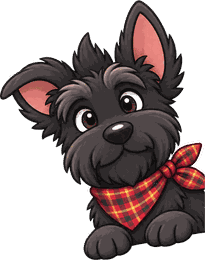
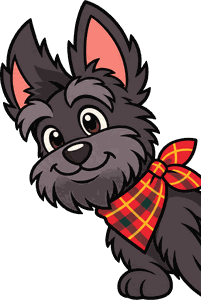
Dog artwork switched to the newer flat style, with new poses on kits, item pages, the reminder, room view, empty search and the footer
Claude-Session: https://claude.ai/code/session_01BS9uMKB9mKihHDjRcq7Zps

diff --git a/app.js b/app.js
@@ -294,7 +294,7 @@ function manualHtml(k,manual){
 function reminderHtml(top,name){
   // one compact row at the top of a page opened from the console; the fuller box in the side column otherwise
   if(top)return '<div class="reminder-top"><label for="return-date">Return reminder for '+esc(String(name).replace(/[\s.\/]+$/,''))+'</label><div class="reminder-row"><input id="return-date" type="datetime-local" aria-describedby="calendar-status"><button id="ics-button" type="button">Add to calendar</button><button id="calendar-button" class="button-secondary" type="button">Google Calendar ↗</button></div><button id="estimate-button" type="button" hidden></button><p id="calendar-status" class="calendar-status" role="status"></p><p class="extend-note">No renewals. Illness or an emergency? <a id="extend-link" href="mailto:help@ideate.cmu.edu">Ask for an extension by email</a> before it is due.</p></div>';
-  return '<div class="side-block"><h2>Return reminder</h2><p>Use the exact due date and time from your checkout email.</p><label for="return-date">Return date and time</label><input id="return-date" type="datetime-local" aria-describedby="calendar-status"><div class="reminder-buttons"><button id="estimate-button" class="button-secondary" type="button">Fill normal 3-day estimate</button><button id="ics-button" type="button">Add to calendar</button><button id="calendar-button" class="button-secondary" type="button">Google Calendar ↗</button></div><p id="calendar-status" class="calendar-status" role="status">Add to calendar alerts you the day before and 2 hours before. Google Calendar uses your own alert setting.</p><p class="extend-note">Cannot make it back in time? Loans cannot be renewed, but for illness or an emergency you can ask for more time before it is due.</p><a class="source-link" id="extend-link" href="mailto:help@ideate.cmu.edu">Ask for an extension by email \u2192</a></div>';
+  return '<div class="side-block">'+pup('calendar','pup-side')+'<h2>Return reminder</h2><p>Use the exact due date and time from your checkout email.</p><label for="return-date">Return date and time</label><input id="return-date" type="datetime-local" aria-describedby="calendar-status"><div class="reminder-buttons"><button id="estimate-button" class="button-secondary" type="button">Fill normal 3-day estimate</button><button id="ics-button" type="button">Add to calendar</button><button id="calendar-button" class="button-secondary" type="button">Google Calendar ↗</button></div><p id="calendar-status" class="calendar-status" role="status">Add to calendar alerts you the day before and 2 hours before. Google Calendar uses your own alert setting.</p><p class="extend-note">Cannot make it back in time? Loans cannot be renewed, but for illness or an emergency you can ask for more time before it is due.</p><a class="source-link" id="extend-link" href="mailto:help@ideate.cmu.edu">Ask for an extension by email \u2192</a></div>';
 }
 
 // The console's QR ends in &w=AUD-3: the unit and shelf the console has for the thing at that moment. The page trusts
@@ -330,6 +330,15 @@ function countOpen(k,fromConsole){
     hit('i-'+k.h); hit(fromConsole?'from-console':'from-site');
   }catch(e){}
 }
+// a few kinds of item get the dog holding the matching thing, beside the first section of the guide
+function itemPose(k){
+  if(k.n.startsWith('Measuring Tape'))return 'tape';
+  if(k.t==='Headphones')return 'headphones';
+  if(k.c==='Photo & Video'&&/Camera|Camcorder|Tripod/.test(k.t))return 'camera';
+  if(k.c==='Shop & Tools'&&/Wrench|Pliers|Screwdriver|Socket/.test(k.n))return 'wrench';
+  if(['XLR Cable','Guitar Cable','MIDI Cable','HDMI Cable','Extension Cord'].includes(k.n))return 'cable';
+  return '';
+}
 function itemView(k,fromConsole){
   const live=fromConsole?consolePlace():null;
   const guide=guideFor(k), howto=howtoFor(k), group=k.c+'/'+k.t, related=(DATA.goes[group]||[]).filter(g=>K.some(a=>a.c+'/'+a.t===g));
@@ -340,6 +349,7 @@ function itemView(k,fromConsole){
   ((k.tips?.length||TIPS[k.n]||TIPS[group])?'<section class="guide-section"><h2>Useful tips</h2>'+listItems(k.tips||TIPS[k.n]||TIPS[group])+'</section>':'')+((howto&&!manual.length&&!MODEL_CHOICES[k.n])?(makerSupport(k.n)?'<section class="guide-section"><h2>Maker support</h2>'+external('Open '+makerSupport(k.n)[0]+'\u2019s own support site',makerSupport(k.n)[1])+'<p class="note">Read the model on the item to find its exact manual there.</p></section>':''):manualHtml(k,manual))+'</div><aside class="side-stack"><div class="side-block"><h2>Borrowing</h2><p>Visit IDeATe Lending in Hunt Library basement, room A29, across from the elevator. Bring your CMU ID. Check current lending hours and borrowing rules before visiting.</p><p>During the semester, the normal loan is three days with a 6 p.m. due time. Weekends count; university holidays may shift the due date.</p><p>Loans cannot be renewed. Hand the item to staff in A29; drop boxes and other libraries do not count. Late fees run from $1 to $25 a day depending on what the item costs, and borrowing is blocked once fines reach $25.</p>'+external('Official IDeATe Lending rules','https://ideate.cmu.edu/resources/lending/index.html')+external('Full circulation policy','https://ideate.cmu.edu/resources/lending/ideate-circulation-policy.html')+external('Browse CMU’s '+categoryName(k.c)+' collection',collectionUrl(k.c))+'</div>'+(related.length?'<div class="side-block"><h2>Often used with</h2>'+related.map(g=>'<a class="source-link" href="#t'+encodeURIComponent(g)+'">'+esc(g.split('/')[1])+' →</a>').join('')+'<p>Compatibility and availability vary by model.</p></div>':'')+(fromConsole?'':reminderHtml(false))+kitsFor(k)+'<div class="side-block"><h2>Something wrong with it?</h2><p>Missing a part, broken, or this page is wrong? Tell the lending staff.</p><a class="source-link" href="'+esc(problemLink(k,live))+'">Report a problem by email \u2192</a></div><div class="side-block"><h2>At checkout</h2><p>Confirm the exact model, included parts, condition, and return date with staff. For powered devices, test startup before leaving when possible.</p></div></aside></div>';
   attachCalendar(k,fromConsole);
   countOpen(k,fromConsole);
+  {const pose=itemPose(k),first=document.querySelector('.guide-stack .guide-section');if(pose&&first)first.insertAdjacentHTML('afterbegin',pup(pose,'pup-item'))}
   const modelChoice=document.getElementById('model-choice');
   if(modelChoice)modelChoice.addEventListener('change',()=>{const result=document.getElementById('model-result'),selected=MODEL_CHOICES[k.n].options[Number(modelChoice.value)];result.innerHTML=modelChoice.value===''?'If none matches, ask staff for the model number before using a manual.':external('Open '+selected[0]+' maker guide',selected[1]);});
   const modelNumber=document.getElementById('model-number');
@@ -348,8 +358,7 @@ function itemView(k,fromConsole){
   if(img)img.addEventListener('error',()=>{img.hidden=true;img.parentElement?.classList.add('photo-unavailable')});
 }
 const pup=(pose,cls)=>'<img class="pup '+(cls||'')+'" src="dog/'+pose+'.png" alt="" aria-hidden="true" loading="lazy">';   // Diana's dog drawings, as decoration
-const pupMove=(strip,cls)=>'<span class="pup-move pup-'+strip+' '+(cls||'')+'" aria-hidden="true"></span>';   // a 4-frame strip of her drawings, played in a loop
-function renderCards(rows){const target=document.getElementById('results');document.getElementById('count').textContent=rows.length+' of '+K.length+' items';target.innerHTML=rows.length?rows.map(k=>'<a class="item-card" href="#i'+k.h+'">'+thumbHtml(k)+'<div><small>'+esc(categoryName(k.c))+' / '+esc(k.t)+'</small><br><strong>'+esc(k.n)+'</strong><span class="card-where">'+esc(k.in?k.w:'Ask at the desk')+'</span></div><span class="arrow" aria-hidden="true">↗</span></a>').join(''):'<div class="empty-state">'+pup('sniff')+'<p>Sniffed around and found nothing. Try a shorter name or another category.</p></div>'}
+function renderCards(rows){const target=document.getElementById('results');document.getElementById('count').textContent=rows.length+' of '+K.length+' items';target.innerHTML=rows.length?rows.map(k=>'<a class="item-card" href="#i'+k.h+'">'+thumbHtml(k)+'<div><small>'+esc(categoryName(k.c))+' / '+esc(k.t)+'</small><br><strong>'+esc(k.n)+'</strong><span class="card-where">'+esc(k.in?k.w:'Ask at the desk')+'</span></div><span class="arrow" aria-hidden="true">↗</span></a>').join(''):'<div class="empty-state">'+pup('dig')+'<p>Dug around and found nothing. Try a shorter name or another category.</p></div>'}
 function listing(category='',type=''){
   document.title='IDeATe Lending · Item guides';
   const categories=[...new Set(K.map(k=>k.c))].sort();
@@ -413,7 +422,7 @@ function listing(category='',type=''){
 function roomView(){
   document.title='Room view · IDeATe Lending';
   const placed=ROOM.units.filter(u=>u.rect);
-  app.innerHTML='<a class="back" href="./">← All items</a>'+pup('play','pup-room')+'<h1>Explore the lending room</h1><p class="intro">A top view of the Room Locator layout and shelves. '+esc(ROOM.synced&&ROOM.synced.at?'Shelves as the console in Lending had them on '+new Date(ROOM.synced.at).toLocaleDateString([], {month:'long',day:'numeric'})+'.':'Shelves as of the Nov 16 setup.')+' It shows where things live, not whether they are checked out.</p><div class="room-layout"><div class="room-map" aria-label="Top view of lending room">'+placed.map(u=>'<button type="button" class="room-unit" data-unit="'+esc(u.code)+'" style="left:'+(u.rect[0]/2)+'%;top:'+(u.rect[1]/1.5)+'%;width:'+Math.max(5,(u.rect[2]-u.rect[0])/2)+'%;height:'+Math.max(5,(u.rect[3]-u.rect[1])/1.5)+'%"'+((u.rect[3]-u.rect[1])/1.5>(u.rect[2]-u.rect[0])/2*1.4?' data-tall':'')+'><span>'+esc(u.name)+'</span></button>').join('')+'</div><div id="room-detail" class="room-detail"><h2>Choose a unit</h2><p>Tap a unit on the map to see its shelves and what is on each.</p></div></div><p class="note room-note">Shelves are numbered from the bottom: shelf 1 is the lowest. In Lending, the console lights the exact shelf when you look an item up.</p>';
+  app.innerHTML='<a class="back" href="./">← All items</a>'+pup('map','pup-room')+'<h1>Explore the lending room</h1><p class="intro">A top view of the Room Locator layout and shelves. '+esc(ROOM.synced&&ROOM.synced.at?'Shelves as the console in Lending had them on '+new Date(ROOM.synced.at).toLocaleDateString([], {month:'long',day:'numeric'})+'.':'Shelves as of the Nov 16 setup.')+' It shows where things live, not whether they are checked out.</p><div class="room-layout"><div class="room-map" aria-label="Top view of lending room">'+placed.map(u=>'<button type="button" class="room-unit" data-unit="'+esc(u.code)+'" style="left:'+(u.rect[0]/2)+'%;top:'+(u.rect[1]/1.5)+'%;width:'+Math.max(5,(u.rect[2]-u.rect[0])/2)+'%;height:'+Math.max(5,(u.rect[3]-u.rect[1])/1.5)+'%"'+((u.rect[3]-u.rect[1])/1.5>(u.rect[2]-u.rect[0])/2*1.4?' data-tall':'')+'><span>'+esc(u.name)+'</span></button>').join('')+'</div><div id="room-detail" class="room-detail"><h2>Choose a unit</h2><p>Tap a unit on the map to see its shelves and what is on each.</p></div></div><p class="note room-note">Shelves are numbered from the bottom: shelf 1 is the lowest. In Lending, the console lights the exact shelf when you look an item up.</p>';
   app.querySelectorAll('.room-unit').forEach(button=>button.addEventListener('click',()=>{
     const unit=ROOM.units.find(u=>u.code===button.dataset.unit),detail=document.getElementById('room-detail');
     app.querySelectorAll('.room-unit').forEach(b=>b.classList.toggle('selected',b===button));
@@ -431,9 +440,17 @@ function rememberLoan(k,due){const v=loans().filter(x=>x.h!==k.h);v.push({h:k.h,
 function loansHtml(){
   const v=loans();if(!v.length)return '';
   const now=Date.now(),when=t=>new Date(t).toLocaleString([], {weekday:'short',month:'short',day:'numeric',hour:'numeric',minute:'2-digit'});
-  return '<section class="my-loans" aria-label="My loans">'+pupMove(v.some(x=>x.due<now)?'bark':'pant','pup-loans')+'<h2>My loans</h2><ul>'+v.map(x=>'<li'+(x.due<now?' class="late"':'')+'><a href="#i'+esc(x.h)+'">'+esc(x.n)+'</a><span>'+(x.due<now?'Was due ':'Due ')+esc(when(x.due))+'</span><button type="button" data-returned="'+esc(x.h)+'">Returned</button></li>').join('')+'</ul><p class="note">Remembered on this phone only. Loans cannot be renewed; hand each one to staff in A29.</p></section>';
+  return '<section class="my-loans" aria-label="My loans">'+pup(v.some(x=>x.due<now)?'sad':'thanks','pup-loans')+'<h2>My loans</h2><ul>'+v.map(x=>'<li'+(x.due<now?' class="late"':'')+'><a href="#i'+esc(x.h)+'">'+esc(x.n)+'</a><span>'+(x.due<now?'Was due ':'Due ')+esc(when(x.due))+'</span><button type="button" data-returned="'+esc(x.h)+'">Returned</button></li>').join('')+'</ul><p class="note">Remembered on this phone only. Loans cannot be renewed; hand each one to staff in A29.</p></section>';
 }
-function attachLoans(root){root.querySelectorAll('[data-returned]').forEach(b=>b.addEventListener('click',()=>{saveLoans(loans().filter(x=>x.h!==b.dataset.returned));const box=root.querySelector('.my-loans');if(box){box.outerHTML=loansHtml();attachLoans(root)}}))}
+function attachLoans(root){root.querySelectorAll('[data-returned]').forEach(b=>b.addEventListener('click',()=>{saveLoans(loans().filter(x=>x.h!==b.dataset.returned));const box=root.querySelector('.my-loans');if(box){box.outerHTML=loansHtml();attachLoans(root)}thanksNote()}))}
+// a small "thanks" in the corner for a few seconds after Returned is pressed, with the tail-wag animation
+function thanksNote(){
+  document.querySelector('.thanks-note')?.remove();
+  const still=matchMedia('(prefers-reduced-motion: reduce)').matches, n=document.createElement('div');
+  n.className='thanks-note';n.setAttribute('role','status');
+  n.innerHTML='<img src="dog/'+(still?'thanks.png':'thanks-wag.webp')+'" alt="" aria-hidden="true"><p><strong>Thanks for bringing it back.</strong> Hand it to staff in A29 so it is checked in.</p>';
+  document.body.appendChild(n);setTimeout(()=>n.remove(),5200);
+}
 // ---------- The code a kit page shows for the console: RL:KIT: and the page code of each first-choice piece
 function kitCodeText(kit){return 'RL:KIT:'+kit.parts.map(p=>K.find(k=>k.n===p.pick[0])).filter(Boolean).slice(0,8).map(k=>k.h).join(',')}
 function showKitCode(kit,box){
@@ -447,7 +464,8 @@ function kitsView(id){
   if(!kit){document.title='Kits \u00b7 IDeATe Lending';
     app.innerHTML='<a class="back" href="./">\u2190 All items</a><div class="hero-row"><div><h1>Kits for a whole project</h1><p class="intro">Pick what you are trying to do and get the full list to ask for, with the shelf for each piece.</p></div>'+pup('wave','pup-wave')+'</div><div class="item-grid">'+KITS.map(x=>'<a class="item-card kit-card" href="#kit-'+esc(x.id)+'"><div><strong>'+esc(x.name)+'</strong><span class="card-where">'+x.parts.length+' pieces</span></div><span class="arrow" aria-hidden="true">\u2197</span></a>').join('')+'</div>';return}
   document.title=kit.name+' \u00b7 IDeATe Lending';
-  app.innerHTML='<a class="back" href="#kits">\u2190 All kits</a><h1>'+esc(kit.name)+'</h1><p class="intro">'+esc(kit.why)+'</p><div class="kit-list">'+kit.parts.map(p=>{const items=p.pick.map(find).filter(Boolean);if(!items.length)return '';const first=items[0];
+  const kitPose={interview:'headphones',music:'headphones',video:'camera',photo:'camera',phone:'camera',stopmotion:'camera',build:'wrench'}[kit.id]||'tilt';
+  app.innerHTML='<a class="back" href="#kits">\u2190 All kits</a><div class="hero-row"><div><h1>'+esc(kit.name)+'</h1><p class="intro">'+esc(kit.why)+'</p></div>'+pup(kitPose,'pup-wave')+'</div><div class="kit-list">'+kit.parts.map(p=>{const items=p.pick.map(find).filter(Boolean);if(!items.length)return '';const first=items[0];
     return '<div class="kit-row"><p class="kit-role">'+esc(p.role)+'</p><a class="item-card" href="#i'+first.h+'">'+thumbHtml(first)+'<div><strong>'+esc(first.n)+'</strong><span class="card-where">'+esc(first.in?first.w:'Ask at the desk')+'</span></div><span class="arrow" aria-hidden="true">\u2197</span></a>'+(items.length>1?'<p class="kit-or">or '+items.slice(1).map(k=>'<a href="#i'+k.h+'">'+esc(k.n)+'</a> ('+esc(k.in?k.w:'ask at the desk')+')').join(', or ')+'</p>':'')+'</div>'}).join('')+'</div><div class="guide-section kit-tip"><h2>Light the shelves in Lending</h2><p><button type="button" id="kit-code-go" class="kit-code-go">Show the code for the console</button></p><div id="kit-code" aria-live="polite"></div></div><div class="guide-section kit-tip"><h2>Before you go</h2><p>'+esc(kit.tip)+'</p><p class="note">Each piece is checked out separately and may already be on loan. The desk has what is in today.</p></div>';
   document.getElementById('kit-code-go').addEventListener('click',e=>{e.target.hidden=true;showKitCode(kit,document.getElementById('kit-code'))});
 }

diff --git a/styles.css b/styles.css
@@ -99,14 +99,16 @@
 .empty-state .pup{width:128px;margin:0 auto 14px}.empty-state{text-align:center}
 
 @media(max-width:580px){.pup-peek{width:84px}.pup-wave{width:76px}}
-.pup-move{display:block;background-repeat:no-repeat;background-size:400% 100%;animation:pup-frames 1.6s steps(4,jump-none) infinite}
-.pup-pant{background-image:url(dog/pant.png);aspect-ratio:173/200}.pup-bark{background-image:url(dog/bark.png);aspect-ratio:163/200;animation-duration:.9s}
-@keyframes pup-frames{from{background-position:0 0}to{background-position:100% 0}}
 .my-loans{position:relative}.pup-loans{position:absolute;right:20px;top:-62px;width:58px}
 .pup-room{width:104px;float:right;margin:4px 0 8px 24px}
 .lost-link{display:flex;align-items:center;gap:18px;background:var(--white);padding:16px 22px;margin-bottom:28px}.lost-link .pup{width:64px;flex:none}.lost-link p{margin:0}
 @media(max-width:580px){.pup-loans{width:48px;top:-52px;right:14px}.pup-room{width:72px}}
-@media(prefers-reduced-motion:reduce){.pup-move{animation:none}}
 .code-all,.code-play{margin-top:18px}.code-all h3{margin:0 0 6px}.code-all-list{margin:10px 0 16px;padding-left:20px;max-height:220px;overflow:auto;font-size:14px}.code-all-list li{margin:4px 0}
 .code-play-count{font-size:22px;font-weight:700;margin:0 0 10px}.code-play button{margin:6px 8px 0 0}
 .many-list{display:grid;gap:6px}.many-item{display:flex;gap:10px;align-items:baseline;font-weight:400}.many-item input{width:auto;flex:none}
+.pup-peek{width:118px;margin-right:-24px}.pup-loans{width:64px;top:-70px}.pup-room{width:118px}
+.side-block{position:relative}.pup-side{position:absolute;right:14px;top:-34px;width:66px}
+.pup-item{float:right;width:96px;margin:-6px 0 6px 18px}
+.sleep-row{max-width:1160px;margin:-74px auto 0;padding:0 24px;display:flex;justify-content:flex-end;line-height:0}.pup-sleep{width:132px}
+.thanks-note{position:fixed;right:18px;bottom:18px;z-index:30;display:flex;align-items:center;gap:14px;max-width:340px;background:var(--white);padding:12px 18px;box-shadow:0 6px 24px #0003}.thanks-note img{width:72px;height:auto;flex:none}.thanks-note p{margin:0;font-size:14px}
+@media(max-width:580px){.pup-peek{width:86px;margin-right:-18px}.pup-loans{width:52px;top:-58px}.pup-side{width:54px;top:-28px}.pup-item{width:72px}.pup-sleep{width:104px}.thanks-note{left:12px;right:12px;max-width:none}}

diff --git a/index.html b/index.html
@@ -6,7 +6,7 @@
   <meta name="theme-color" content="#a6192e">
   <meta name="description" content="A practical guide to the IDeATe Lending collection at Carnegie Mellon University.">
   <title>IDeATe Lending · Item guides</title>
-  <link rel="stylesheet" href="styles.css?v=20261117j">
+  <link rel="stylesheet" href="styles.css?v=20261118a">
 </head>
 <body>
   <header class="site-header"><div class="header-inner">
@@ -14,7 +14,8 @@
     <nav class="header-nav"><a href="./">All items</a><a href="#kits">Kits</a><a href="#room">Room view</a><a href="https://ideate.cmu.edu/resources/lending/index.html" target="_blank" rel="noopener noreferrer">Official lending information ↗</a></nav>
   </div></header>
   <main id="app" tabindex="-1"></main>
+  <div class="sleep-row"><img class="pup pup-sleep" src="dog/sleep.png" alt="" aria-hidden="true" loading="lazy"></div>
   <footer class="site-footer"><div><strong>IDeATe Lending item guides</strong><p>Based on the October 2026 inventory. Find the item, gather what you need, and ask the lending desk about the exact kit and current availability.</p><p><a href="staff.html">Staff tools: move or add items</a></p></div><p>Student project by Diana Caballero and Gauri Sharma for 60-223. Unofficial guide; CMU and manufacturer pages are the source for policies and product instructions. The site counts how often each guide is opened, with nothing about who opened it.</p></footer>
-  <script src="app.js?v=20261117i" defer></script>
+  <script src="app.js?v=20261118b" defer></script>
 </body>
 </html>
